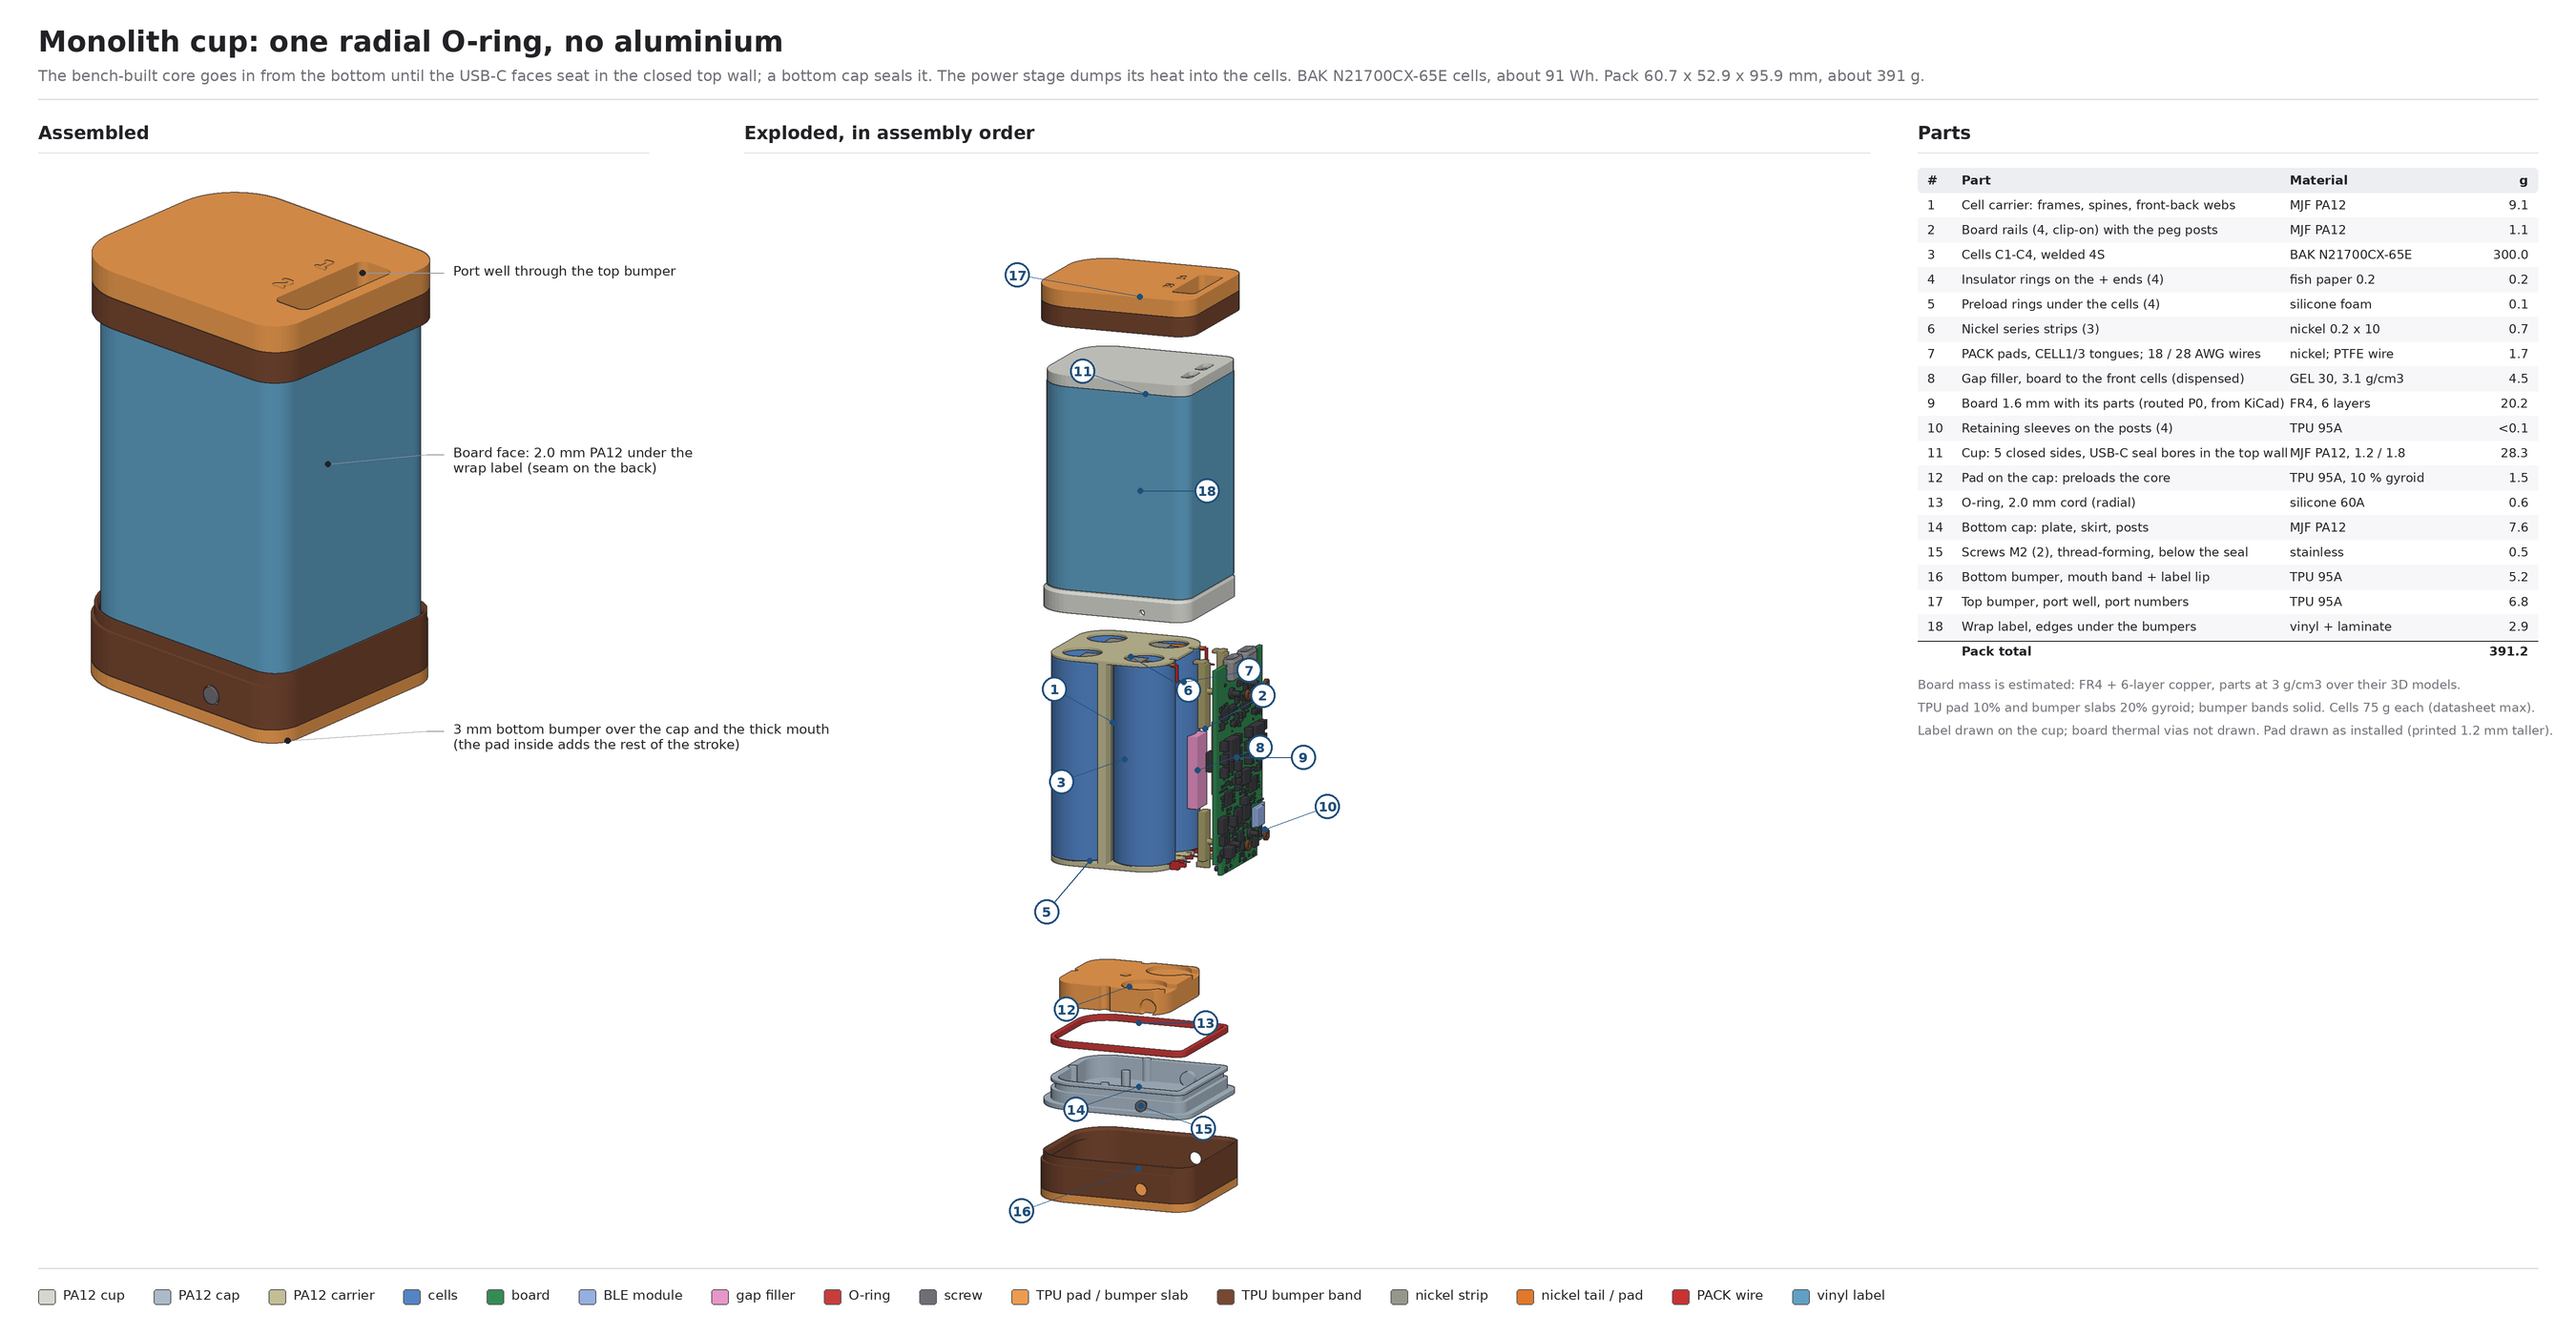
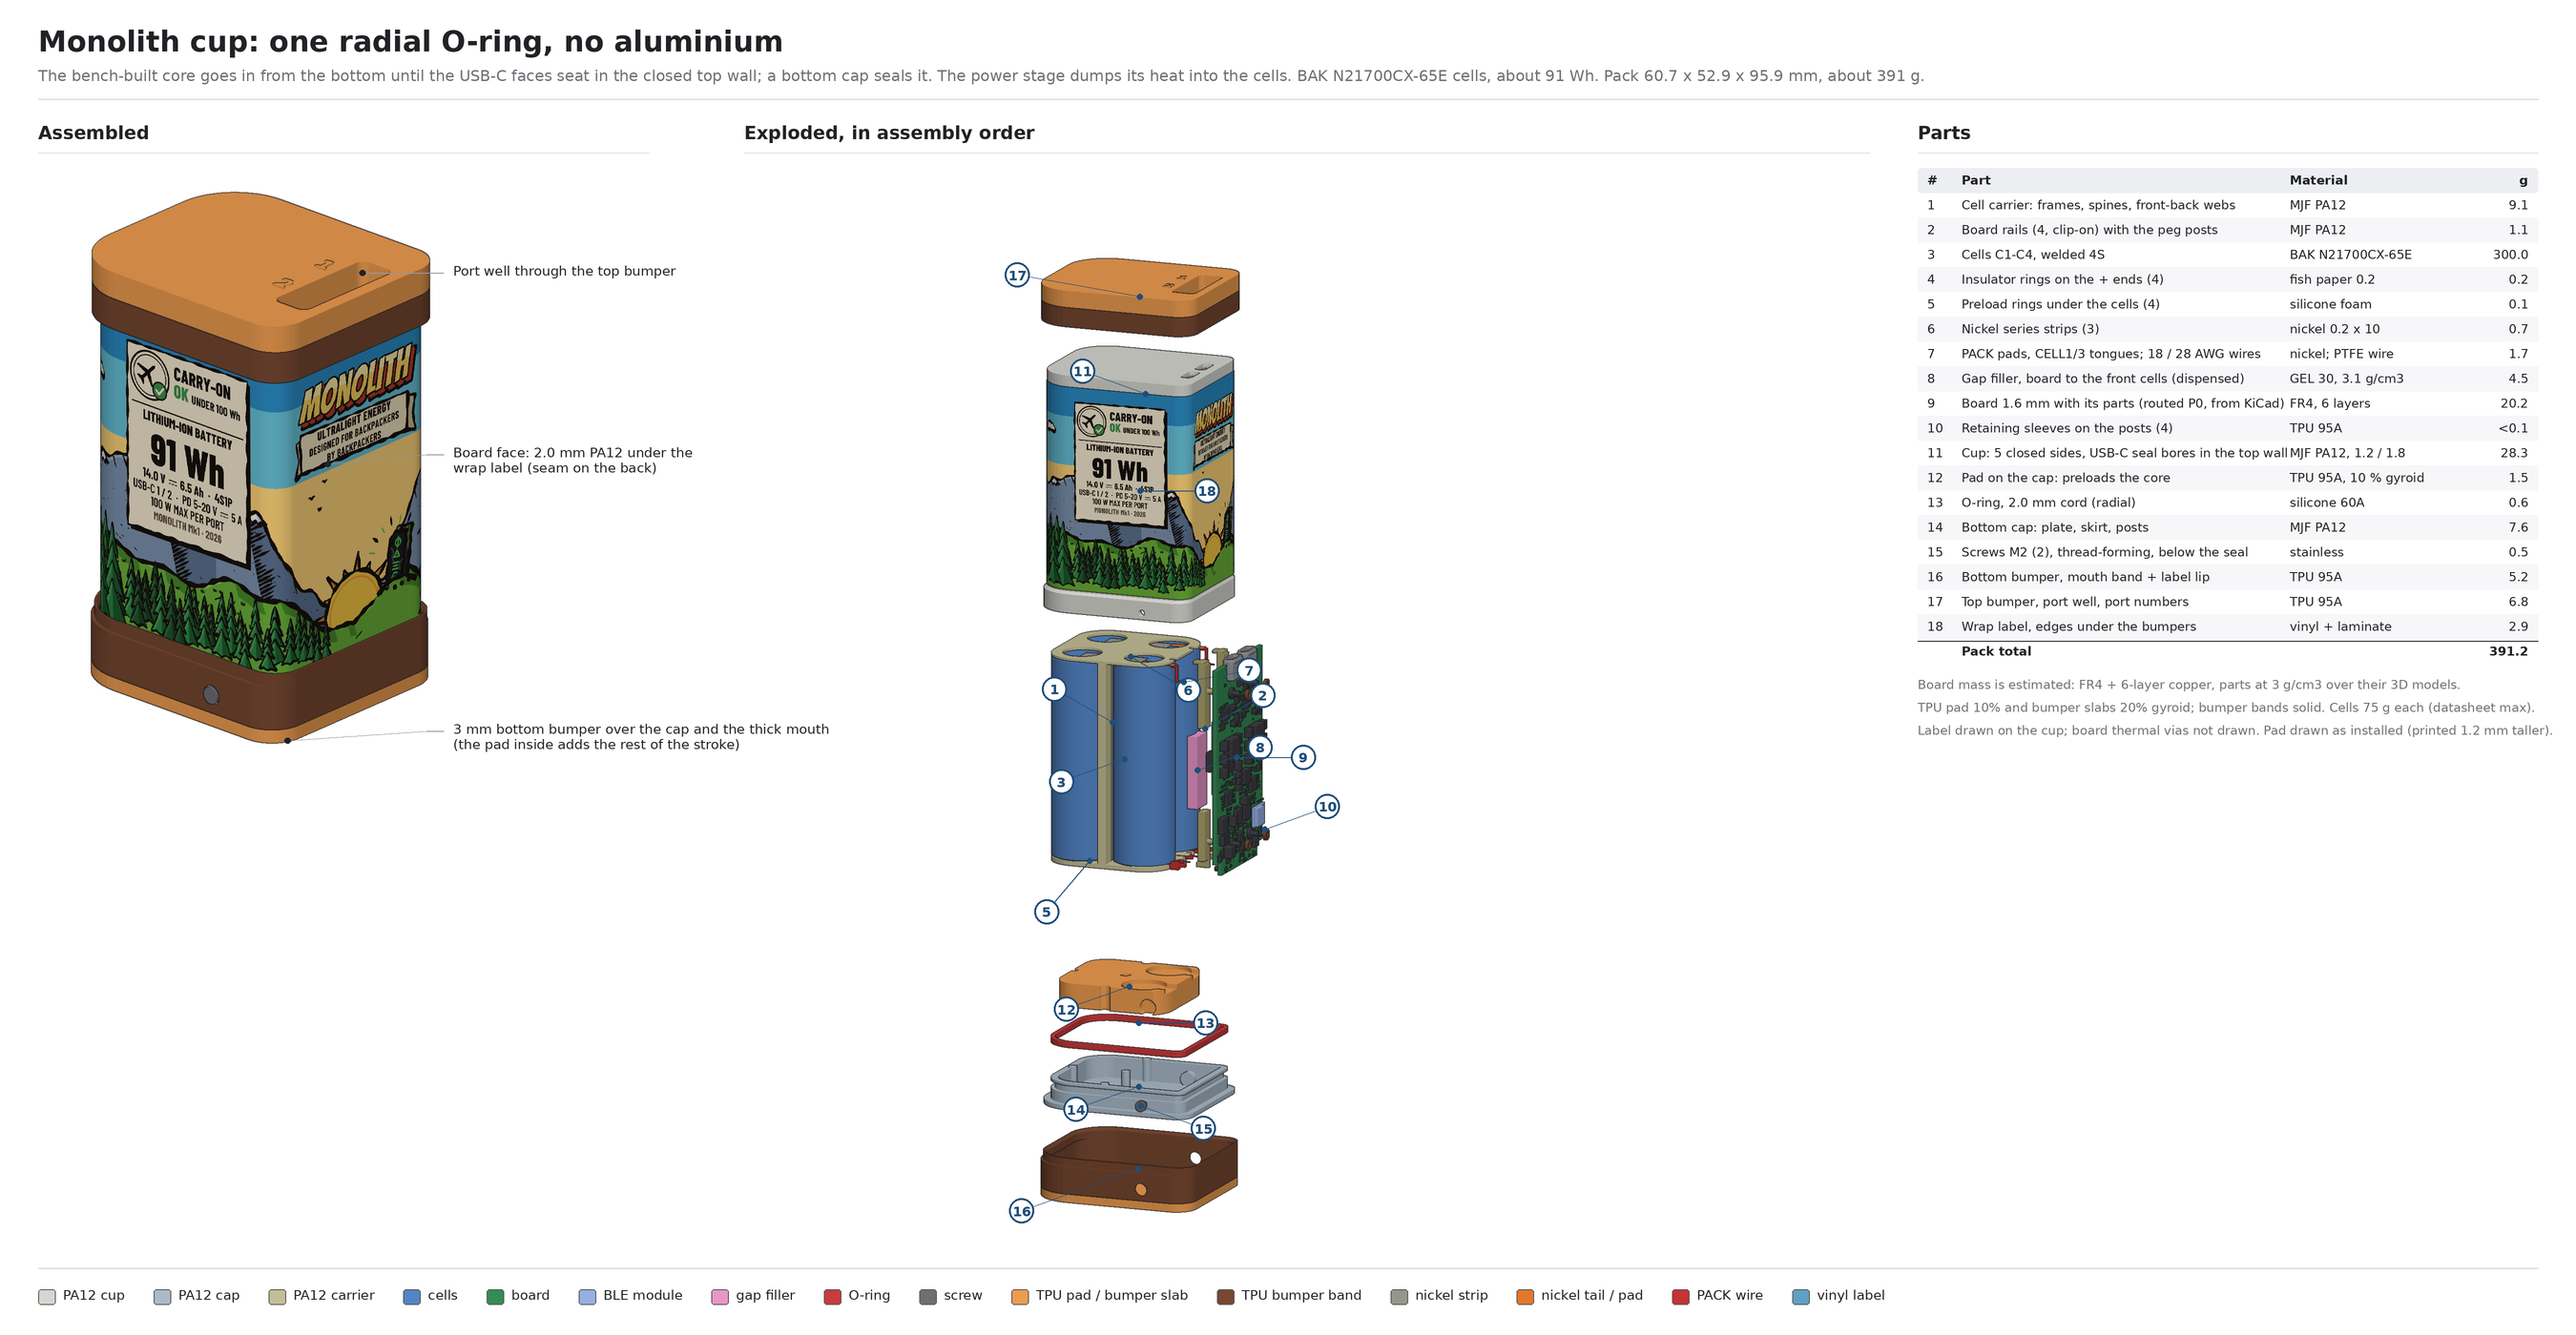
Exploded view: draw the printed label art on the wrap label
The label in monolith_cup_exploded.png was a flat blue shell. label_tex() is a zrender
tex hook that unprojects each label pixel onto the cup, measures its perimeter position
from the seam the way hardware/label/monolith_label.py lays the wrap out, and samples
the adopted art (out/monolith_label_bl_print.svg, through cairosvg) with the renderer's
shading kept. Falls back to the plain colour if the art or cairosvg is missing.

Claude-Session: https://claude.ai/code/session_01LzE9v1nByDVUqn8EHjCUtV

Changed region(s): [[0.0311, 0.2457, 0.1867, 0.5221], [0.4044, 0.2764, 0.4978, 0.4607]]

diff --git a/hardware/mechanical/monolith_cup.py b/hardware/mechanical/monolith_cup.py
@@ -327,6 +327,42 @@ def label():
     """the wrap label as fitted: a 0.15 mm shell on the cup between LABEL_Z"""
     return pz(CS.batch_boolean([cs_out.offset(LABEL_T, ROUND), cs_out], M3.OpType.Subtract), *LABEL_Z)
 
+LABEL_ART = os.path.join(HERE, '..', 'label', 'out', 'monolith_label_bl_print.svg')   # the adopted art (2 mm bleed)
+def label_tex(parts_keys, offset=(0, 0, 0), dpmm=12):
+    """zrender tex hook that paints the printed label art on the label's pixels: each pixel is unprojected to the cup,
+    its perimeter position measured from the seam (middle of the back flat, as hardware/label/monolith_label.py lays it
+    out) and the art sampled there, keeping the renderer's shading. Plain label colour if the art or cairosvg is missing."""
+    try:
+        import cairosvg, io
+        bleed = 2.0
+        png = cairosvg.svg2png(url=LABEL_ART, scale=dpmm / (96 / 25.4), background_color='white')
+        art = np.asarray(Image.open(io.BytesIO(png)).convert('RGB'), float)
+    except Exception as e:
+        print('label art not drawn:', e); return None
+    Pl = np.array(cs_out.offset(LABEL_T / 2, ROUND, circular_segments=720).to_polygons()[0], float)
+    Ql = np.roll(Pl, -1, 0); seg = np.linalg.norm(Ql - Pl, axis=1); s0 = np.concatenate([[0], np.cumsum(seg)[:-1]]); per = seg.sum()
+    back = [i for i in range(len(Pl)) if seg[i] > 2 and abs(Pl[i, 0] - Ql[i, 0]) < 1e-4 and Pl[i, 0] < 0][0]
+    seam = s0[back] + seg[back] / 2
+    idx = [i for i, k in enumerate(parts_keys) if k == 'label']
+    def tex(base, pid, zb, ox, oy, px, R):
+        m = np.isin(pid, idx)
+        if not m.any(): return
+        iy, ix = np.nonzero(m)
+        Q = np.stack([(ix + 0.5 - ox) / px, (oy - iy - 0.5) / px, zb[iy, ix]], -1)
+        p = Q @ R - np.asarray(offset, float)
+        d = Ql - Pl; u = np.empty(len(p))
+        for a in range(0, len(p), 4000):                  # nearest perimeter segment, in chunks
+            q = p[a:a + 4000, None, :2]
+            t = np.clip(((q - Pl[None]) * d[None]).sum(-1) / (seg**2)[None], 0, 1)
+            j = np.argmin(np.linalg.norm(q - (Pl[None] + t[..., None] * d[None]), axis=-1), axis=1)
+            u[a:a + 4000] = (s0[j] + t[np.arange(len(j)), j] * seg[j] - seam) % per
+        v = LABEL_Z[1] - p[:, 2]
+        cx = np.clip(((u + bleed) * dpmm).astype(int), 0, art.shape[1] - 1)
+        cy = np.clip(((v + bleed) * dpmm).astype(int), 0, art.shape[0] - 1)
+        shade = (base[iy, ix] / np.array(C['label'], float)).mean(1, keepdims=True)
+        base[iy, ix] = art[cy, cx] * np.clip(shade, 0.35, 1.15)
+    return tex
+
 # ---------------- assembly and masses ----------------
 C = dict(RR.C, cup=(214, 214, 208), cap=(170, 186, 200), carrier=(196, 190, 150), filler=(232, 150, 200), oring=(200, 60, 60),
          screw=(110, 110, 116), pad=(236, 156, 80), bump=(118, 72, 50), bslab=(236, 156, 80),
@@ -563,7 +599,8 @@ def sheet_exploded(A, m):
               f'The power stage dumps its heat into the cells. BAK N21700CX-65E cells, about 91 Wh. Pack {w:.1f} x {d:.1f} x {L:.1f} mm, about {total:.0f} g.')
     sh.panel_title(40, 128, 'Assembled', 640)
     R = camera((1.0, -1.1, 0.65)); o1 = (250, 660); pxs = 5.0
-    sh.render([(V, c) for _, V, c in A], R, o1, pxs); pj = RR.proj(R, o1, pxs)
+    keys = [k for k, _, _ in A]
+    sh.render([(V, c) for _, V, c in A], R, o1, pxs, tex=label_tex(keys)); pj = RR.proj(R, o1, pxs)
     sh.callouts([(pj((PORT_X, 9, Z_TOP1 + BUMP_T_TOP)), 'Port well through the top bumper'),
                  (pj((X_OUT, -8, 50)), 'Board face: 2.0 mm PA12 under the\nwrap label (seam on the back)'),
                  (pj((X_OUT + 2, -YI, Z_MOUTH - CAP_T - BUMP_T_BOT + 1)), f'{BUMP_T_BOT:.0f} mm bottom bumper over the cap and the thick mouth\n(the pad inside adds the rest of the stroke)')],
@@ -577,7 +614,7 @@ def sheet_exploded(A, m):
         g_ = group(k); dd = EX.get(g_, (0, 0, -182) if g_ == 'bumpb' else (0, 0, 50))
         ex.append((mv(V, dd), c)); gid.append(g_)
     R2 = camera((0.5, -1.25, 0.32)); o2 = (1180, 690); px2 = 3.0
-    pid = sh.render(ex, R2, o2, px2)
+    pid = sh.render(ex, R2, o2, px2, tex=label_tex(keys, EX['label']))
     balloons(sh, pid, gid, dict(cup=160, carrier=150, cell=200, nickel=330, tails=10, filler=20, board=0, pad=200, oring=0,
                                 cap=200, screw=340, bumpb=200, bumpt=170, rails=30, insul=120, foam=230, sleeve=20))
     x0 = 2010; sh.panel_title(x0, 128, 'Parts', 650)
